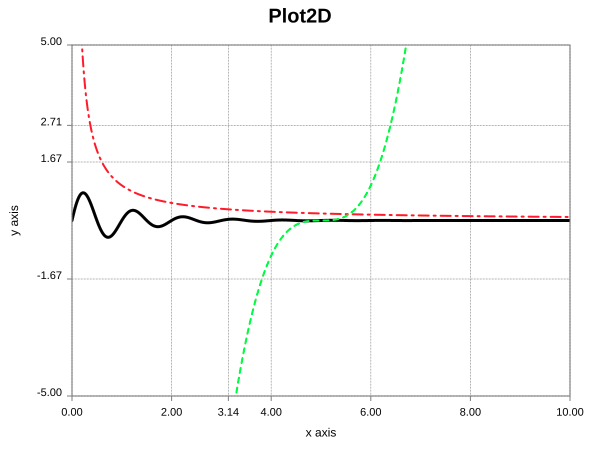
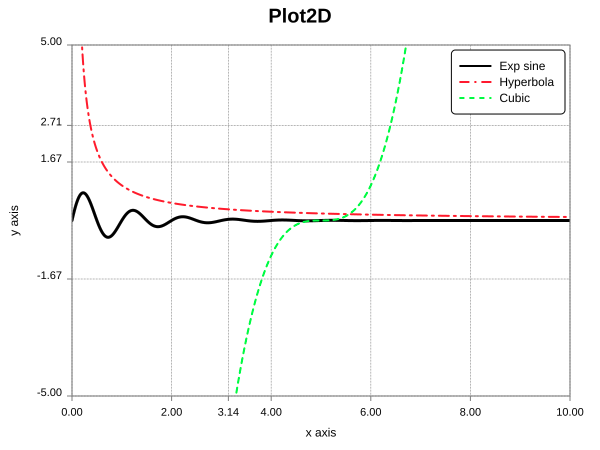
[Plot2D] Add support for legend

diff --git a/src/Plot2D.cpp b/src/Plot2D.cpp
@@ -28,6 +28,7 @@
 #include <utility>
 #include <vector>
 
+#include "fonts.hpp"
 #include "ranges.hpp"
 #include "svg.hpp"
 
@@ -108,6 +109,25 @@ void Plot2D::SetGrid(bool enable) { m_grid_enable = enable; }
 
 void Plot2D::SetHold(bool hold) { m_hold = hold; }
 
+void Plot2D::SetLegend(const std::vector<std::string>& labels) {
+  if (labels.empty()) {
+    return;
+  }
+
+  m_legend_enable = true;
+  const std::size_t num_legends = std::min(labels.size(), m_data.size());
+  for (std::size_t i = 0; i < num_legends; ++i) {
+    m_data[i].label = labels[i];
+  }
+}
+
+void Plot2D::ClearLegend() {
+  m_legend_enable = false;
+  for (auto& data_series : m_data) {
+    data_series.label.clear();
+  }
+}
+
 void Plot2D::Clear() {
   ClearData();
   SetTitle("");
@@ -140,6 +160,7 @@ void Plot2D::Build() {
   DrawAxes();
   DrawData();
   DrawFrame();
+  DrawLegend();
 }
 
 void Plot2D::CalculateFrame() {
@@ -210,9 +231,9 @@ void Plot2D::DrawFrame() {
       .width = m_frame_w,
       .height = m_frame_h,
       .stroke_color = FRAME_STROKE_COLOR,
-      .fill_opacity = 0.0f,
   };
-  m_svg.DrawRect(frame_rect);
+  auto frame_node = m_svg.DrawRect(frame_rect);
+  svg::SetAttribute(frame_node, "fill", "none");
 
   auto defs_node = m_svg.Defs();
   auto clip_path_node = svg::AppendNode(defs_node, "clipPath");
@@ -343,12 +364,12 @@ void Plot2D::DrawXAxis() {
     m_svg.DrawLine(marker_line);
 
     const std::string marker_text = fmt::format("{:.2f}", marker);
-    const int text_size = 11;
+    static constexpr int text_size = 11;
+    static constexpr float font_em = text_size / 12.0f;
     auto text_node = m_svg.DrawText(
-        svg::Text{marker_text, x, y + MARKER_LENGTH, text_size, TEXT_FONT});
+        svg::Text{marker_text, x, y + MARKER_LENGTH + fonts::EmToPx(font_em),
+                  text_size, TEXT_FONT});
     svg::SetAttribute(text_node, "text-anchor", "middle");
-    svg::SetAttribute(text_node, "baseline-shift", std::to_string(-text_size),
-                      "pt");
 
     if (m_grid_enable) {
       svg::Line grid_line{.x1 = x,
@@ -407,6 +428,67 @@ void Plot2D::DrawYAxis() {
       auto grid_line_node = m_svg.DrawLine(grid_line);
       svg::SetAttribute(grid_line_node, "stroke-dasharray", "0.75,0.75");
     }
+  }
+}
+
+void Plot2D::DrawLegend() {
+  if (!m_legend_enable) {
+    return;
+  }
+
+  static constexpr float font_size = 12.0f;
+  static constexpr float box_margin_px = 5.0f;
+  static constexpr float font_em = font_size / 12.0f;
+  static constexpr float font_margin_em = 0.5f * font_em;
+  static constexpr float dash_length_em = 2.0f * font_em;
+  static constexpr float spacing_em = 0.5f * font_em;
+
+  // Calculate sizes
+  float max_font_width_em = 0;
+  for (const auto& data_series : m_data) {
+    const auto [w, _] =
+        fonts::CalculateTextSize(data_series.label, TEXT_FONT, font_size);
+    max_font_width_em = std::max(max_font_width_em, w);
+  }
+
+  const std::size_t num_labels = m_data.size();
+  const float box_w = fonts::EmToPx(2 * font_margin_em + dash_length_em +
+                                    spacing_em + max_font_width_em);
+  const float box_x = (m_frame_x + m_frame_w) - box_margin_px - box_w;
+  const float box_y = m_frame_y + box_margin_px;
+  const float box_h = fonts::EmToPx(static_cast<float>(num_labels) * font_em +
+                                    2 * font_margin_em);
+
+  svg::Rect box_rect = {
+      .x = box_x,
+      .y = box_y,
+      .width = box_w,
+      .height = box_h,
+  };
+  auto box_rect_node = m_svg.DrawRect(box_rect);
+  svg::SetAttribute(box_rect_node, "fill", "white");
+  svg::SetAttribute(box_rect_node, "fill-opacity", "0.8f");
+  svg::SetAttribute(box_rect_node, "rx", "4", "px");
+  svg::SetAttribute(box_rect_node, "ry", "4", "px");
+
+  for (std::size_t i = 0; i < num_labels; ++i) {
+    const std::string& label = m_data[i].label;
+    const Style& style = m_data[i].style;
+    const float x = box_x + fonts::EmToPx(font_margin_em);
+    const float y = box_y + fonts::EmToPx(font_em / 2 + font_margin_em +
+                                          static_cast<float>(i) * font_em);
+    svg::Line dash = {.x1 = x,
+                      .y1 = y,
+                      .x2 = x + fonts::EmToPx(dash_length_em),
+                      .y2 = y,
+                      .stroke_color = style.color,
+                      .stroke_width = 2.0f};
+    auto line_node = m_svg.DrawLine(dash);
+    svg::SetAttribute(line_node, "stroke-dasharray", style.dash_array);
+
+    const float text_x = x + fonts::EmToPx(dash_length_em + spacing_em);
+    const float text_y = y + fonts::EmToPx(font_em / 4);
+    m_svg.DrawText(svg::Text{label, text_x, text_y, font_size, TEXT_FONT});
   }
 }
 

diff --git a/src/fonts.cpp b/src/fonts.cpp
@@ -1,0 +1,47 @@
+/*
+ * plotcpp is a 2D plotting library for modern C++
+ *
+ * Copyright 2022  Javier Lancha Vázquez <javier.lancha@gmail.com>
+ *
+ * Licensed under the Apache License, Version 2.0 (the "License");
+ * you may not use this file except in compliance with the License.
+ * You may obtain a copy of the License at
+ *
+ *     http://www.apache.org/licenses/LICENSE-2.0
+ *
+ * Unless required by applicable law or agreed to in writing, software
+ * distributed under the License is distributed on an "AS IS" BASIS,
+ * WITHOUT WARRANTIES OR CONDITIONS OF ANY KIND, either express or implied.
+ * See the License for the specific language governing permissions and
+ * limitations under the License.
+ */
+
+#include "fonts.hpp"
+
+#include <map>
+#include <string>
+#include <utility>
+
+namespace plotcpp {
+namespace fonts {
+
+static const float DEFAULT_WIDTH_EM = 0.48f;
+
+static const std::map<std::string, FontData> FONT_DATA = {
+    {"arial", {.width_em = 0.40f}},
+};
+
+float EmToPx(float em) { return em * 16.0f; }
+
+std::pair<float, float> CalculateTextSize(const std::string& text,
+                                          const std::string& font, float size) {
+  const auto it = FONT_DATA.find(font);
+  const float width_em =
+      (it != FONT_DATA.end()) ? it->second.width_em : DEFAULT_WIDTH_EM;
+  const std::size_t text_length = text.size();
+  return {(static_cast<float>(text_length) * width_em) * (size / 12.0f),
+          (size / 12.0f)};
+}
+
+}  // namespace fonts
+}  // namespace plotcpp

diff --git a/include/fonts.hpp b/include/fonts.hpp
@@ -1,0 +1,49 @@
+/*
+ * plotcpp is a 2D plotting library for modern C++
+ *
+ * Copyright 2022  Javier Lancha Vázquez <javier.lancha@gmail.com>
+ *
+ * Licensed under the Apache License, Version 2.0 (the "License");
+ * you may not use this file except in compliance with the License.
+ * You may obtain a copy of the License at
+ *
+ *     http://www.apache.org/licenses/LICENSE-2.0
+ *
+ * Unless required by applicable law or agreed to in writing, software
+ * distributed under the License is distributed on an "AS IS" BASIS,
+ * WITHOUT WARRANTIES OR CONDITIONS OF ANY KIND, either express or implied.
+ * See the License for the specific language governing permissions and
+ * limitations under the License.
+ */
+
+#ifndef _PLOTCPP_INCLUDE_FONTS_HPP_
+#define _PLOTCPP_INCLUDE_FONTS_HPP_
+
+#include <map>
+#include <string>
+#include <utility>
+
+namespace plotcpp {
+namespace fonts {
+
+struct FontData {
+  float width_em;
+};
+
+/** Convert em to px */
+float EmToPx(float em);
+
+/**
+ * \brief Calculate an approximation of the bounding box of a text.
+ * \param text Text string
+ * \param font Font family
+ * \param size Font size
+ * \return A std::pair with the width and height of the bounding box.
+ */
+std::pair<float, float> CalculateTextSize(const std::string& text,
+                                          const std::string& font, float size);
+
+}  // namespace fonts
+}  // namespace plotcpp
+
+#endif  // _PLOTCPP_INCLUDE_FONTS_HPP_

diff --git a/include/Plot2D.hpp b/include/Plot2D.hpp
@@ -109,6 +109,10 @@ class Plot2D : public Figure {
   /** Clears all custom markers */
   void ClearMarkers();
 
+  void SetLegend(const std::vector<std::string>& labels);
+
+  void ClearLegend();
+
   /**
    * \brief Set a label for the x axis.
    * \param label
@@ -149,6 +153,7 @@ class Plot2D : public Figure {
     std::vector<Real> x;
     std::vector<Real> y;
     Style style;
+    std::string label;
   };
 
   bool m_hold = true;
@@ -173,6 +178,7 @@ class Plot2D : public Figure {
   std::set<Real> m_y_custom_markers;
 
   bool m_grid_enable = false;
+  bool m_legend_enable = false;
 
   /** Calculate all frame parameters needed to draw the plots. */
   void CalculateFrame();
@@ -206,6 +212,7 @@ class Plot2D : public Figure {
   void DrawYAxis();
   void DrawXLabel();
   void DrawYLabel();
+  void DrawLegend();
 };
 
 }  // namespace plotcpp

diff --git a/test/plot2d_tester.cpp b/test/plot2d_tester.cpp
@@ -72,6 +72,8 @@ int main(int argc, char* argv[]) {
   plot2d.AddYMarker(2.71f);
   plot2d.AddYMarker(5.10f);
 
+  plot2d.SetLegend({"Exp sine", "Hyperbola", "Cubic"});
+
   plot2d.Build();
   plot2d.Save(filepath);
 
